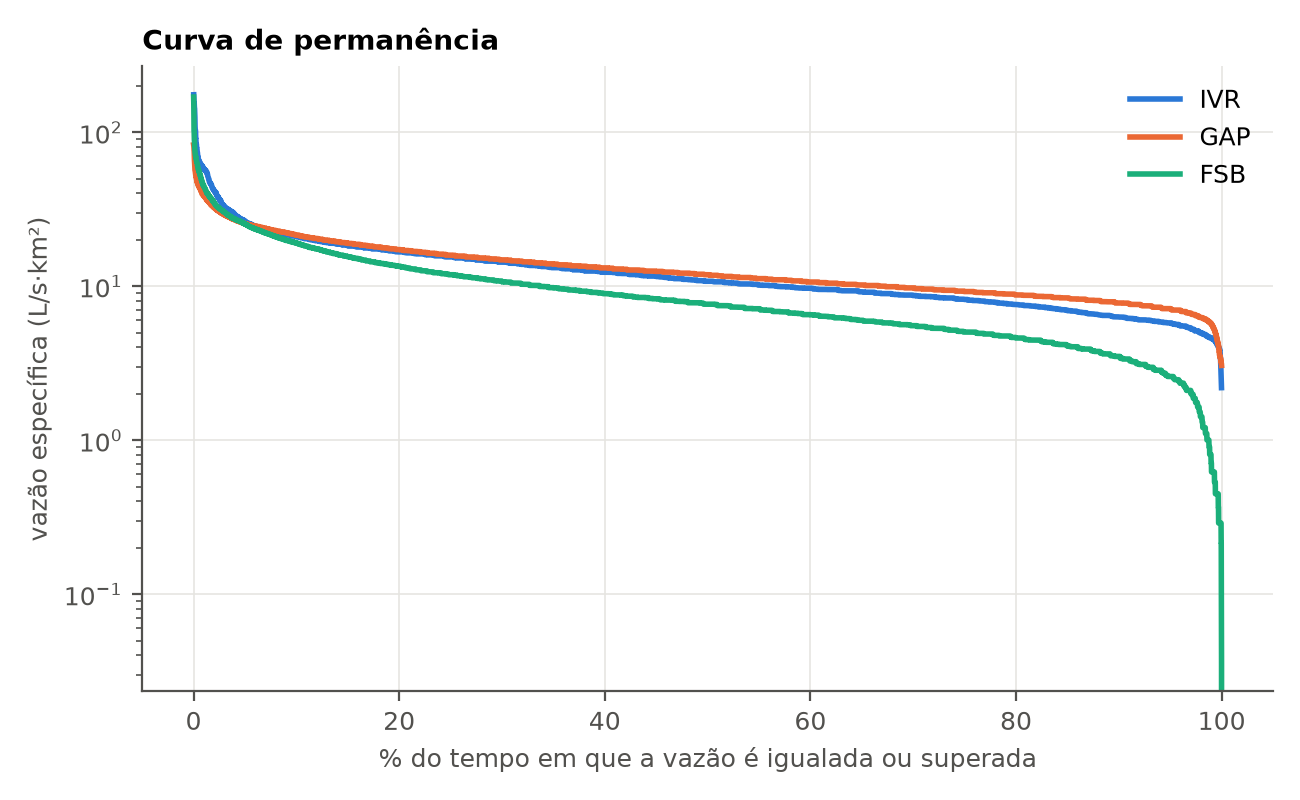
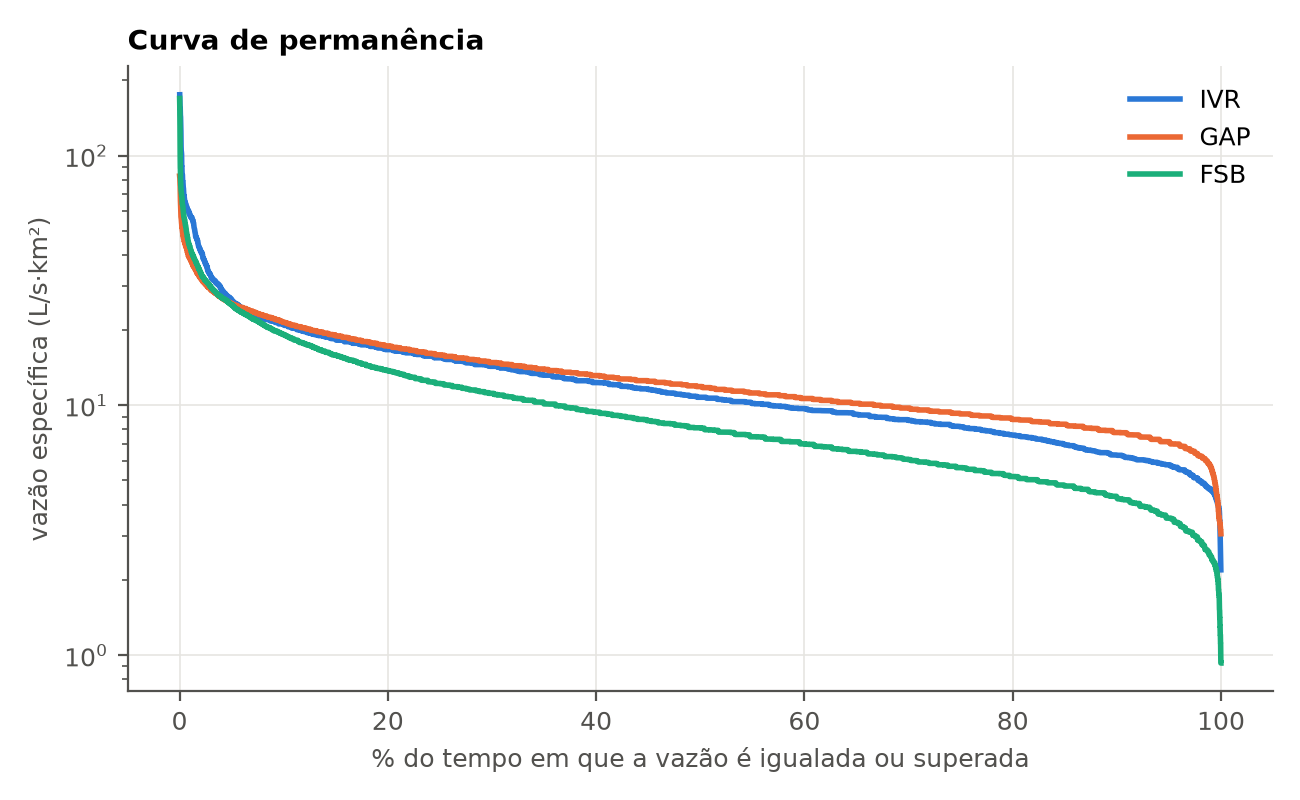
Checagem chuva-vazão; IVR como controle pré-registrado; FSB sem 1966-1974 e 1984; validação 2005-2014

diff --git a/docs/decisoes.md b/docs/decisoes.md
@@ -74,3 +74,14 @@ IVR é mantido como POSTO DE CONTROLE, com medição comprovadamente inconsisten
   os horizontes (1, 7 e 30 dias).
 - IVR é reportado SEPARADAMENTE e nunca entra em médias com GAP e FSB.
 - Objetivo: quantificar o custo de treinar e avaliar com dados inconsistentes (lição final do trabalho).
+
+## 2026-09-30 — FSB antes de 1995 e baselines finais da limpeza
+- GAP 1982-1994: nenhum ano suspeito.
+- FSB: anos hidro 1969 (razão 0,50; z=-4,1), 1971 (0,31; z=-7,0) e 1984 (1,63; z=3,1) suspeitos.
+  Critério: se o par chuva-vazão é inconsistente, o ano não serve para treinar um modelo chuva-vazão,
+  qualquer que seja o lado errado. Removidos: 1966-01 a 1974-09 (inclui década com curva
+  de descarga desconhecida e grade de chuva esparsa) e 1983-10 a 1984-09.
+- Baselines na validação 2005-2014 (NSE, melhor baseline por antecedência):
+  GAP 0,95 / 0,44 / 0,18 ; FSB 0,87 / 0,25 / 0,13 (1 / 7 / 30 dias).
+  Climatologia GAP: R² 0,06 -> 0,27 e PBIAS +35% -> -4,6% após a limpeza.
+  IVR (controle): climatologia sem sinal (R² 0,03), coerente com a hipótese pré-registrada.
